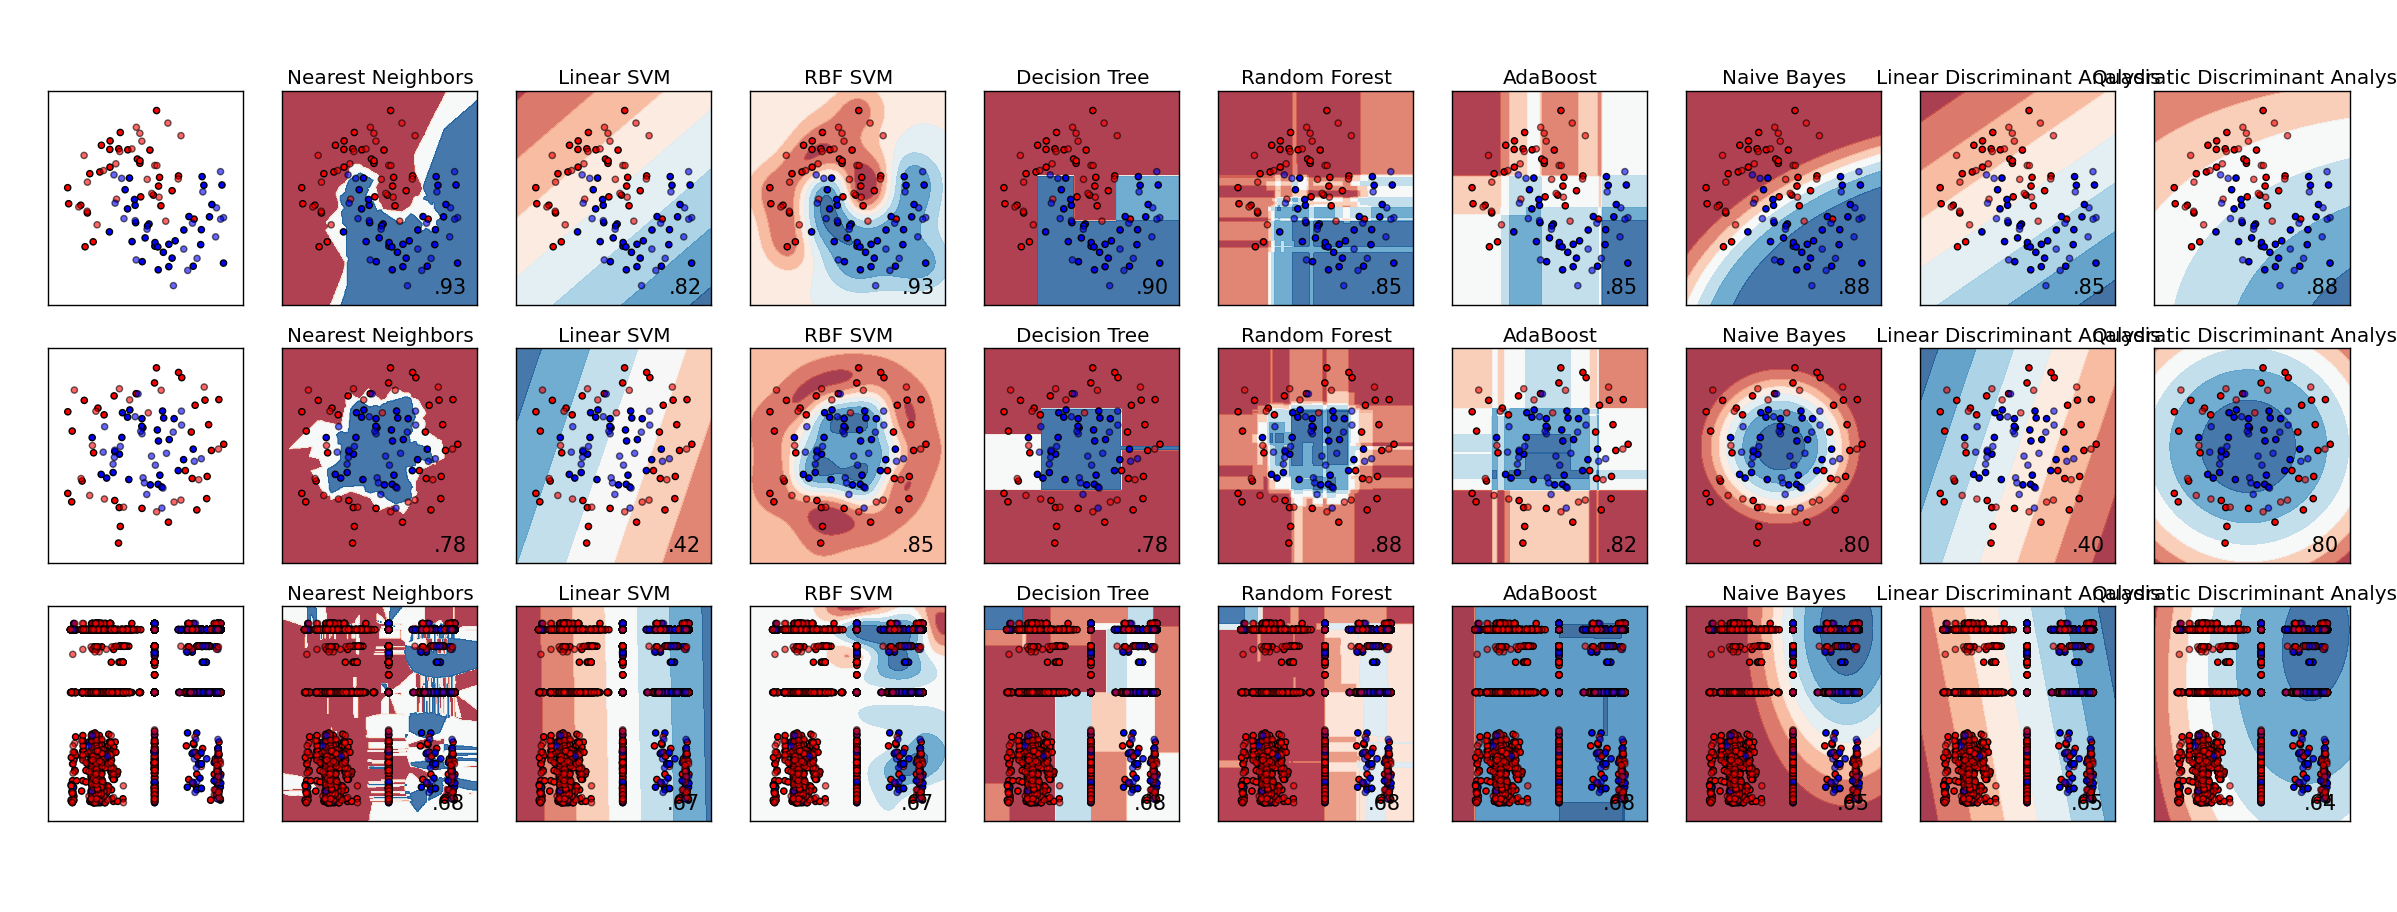
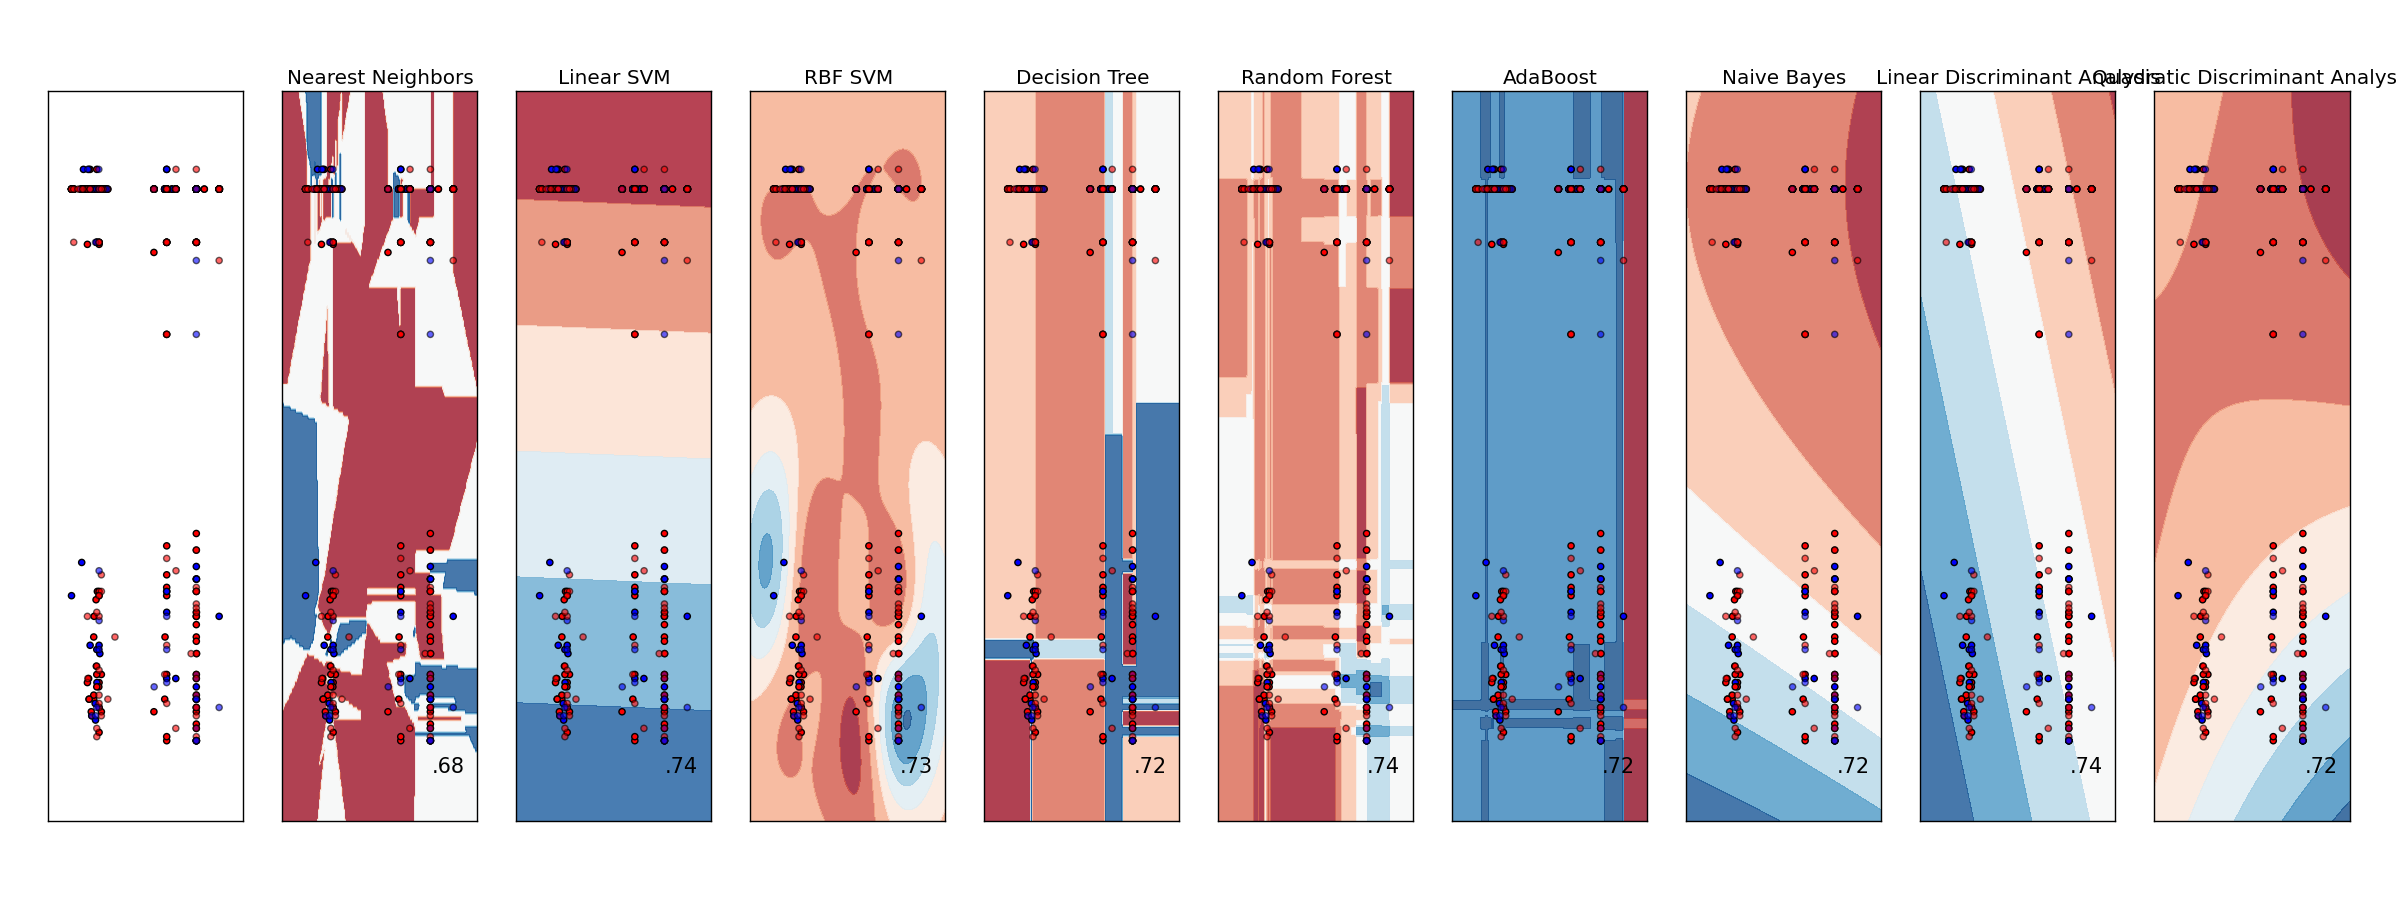
Some improvments

diff --git a/DZ2/main.py b/DZ2/main.py
@@ -37,33 +37,45 @@ file_name = "2016.02.20.vyygrusska.csv"
 data = pan.read_csv(filepath_or_buffer=file_name, sep=';')
 
 y = list()
-i = 0
+i=0
 for case in data['CLASS']:
-    i+=1
-    if case == 'G':
-        y.append(0)
-    elif case == 'F':
-        y.append(1)
+    if i < 1000:
+        i+=1
+        if case == 'G':
+            y.append(0)
+        else:
+            y.append(1)
     else:
-        print i
+        break
 
 X = list()
-for case in data['X15']:
-    X.append([float(case)])
+i = 0
+for case in data['X17']:
+    if float(case) != 0:
+        if i < 1000:
+            X.append([float(case)/1000])
+            i+=1
+        else:
+            break
+    else:
+        continue
 i = 0
 for case in data['X18']:
-    X[i].append(float(case))
-    i+=1
+    if float(case) != 0:
+        if i < 1000:
+            X[i].append(float(case)/1000)
+            i+=1
+        else:
+            break
+    else:
+        continue
 
 X = np.array(X)
-rng = np.random.RandomState(2)
-X += 2 * rng.uniform(size=X.shape)
+#rng = np.random.RandomState(2)
+#X += 2 * rng.uniform(size=X.shape)
 linearly_separable = (X, y)
 
-datasets = [make_moons(noise=0.3, random_state=0),
-            make_circles(noise=0.2, factor=0.5, random_state=1),
-            linearly_separable
-            ]
+datasets = [linearly_separable]
 
 figure = plt.figure(figsize=(27, 9))
 i = 1
